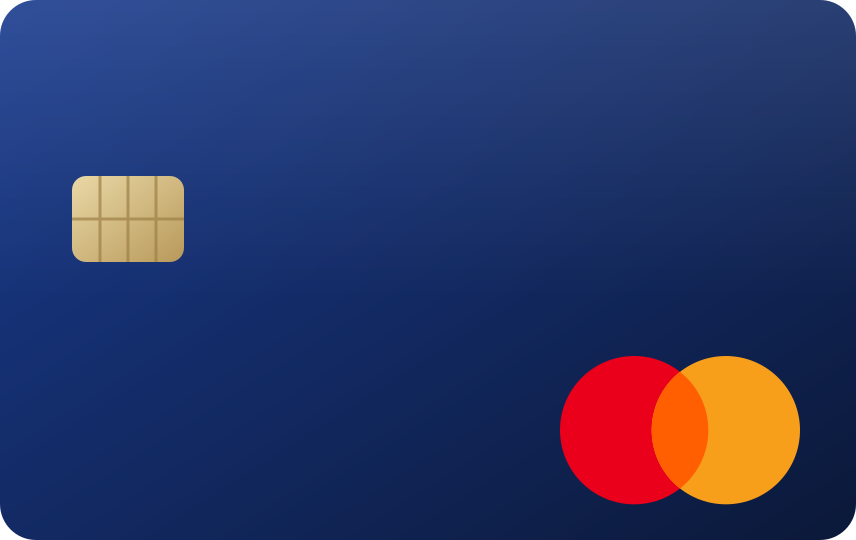
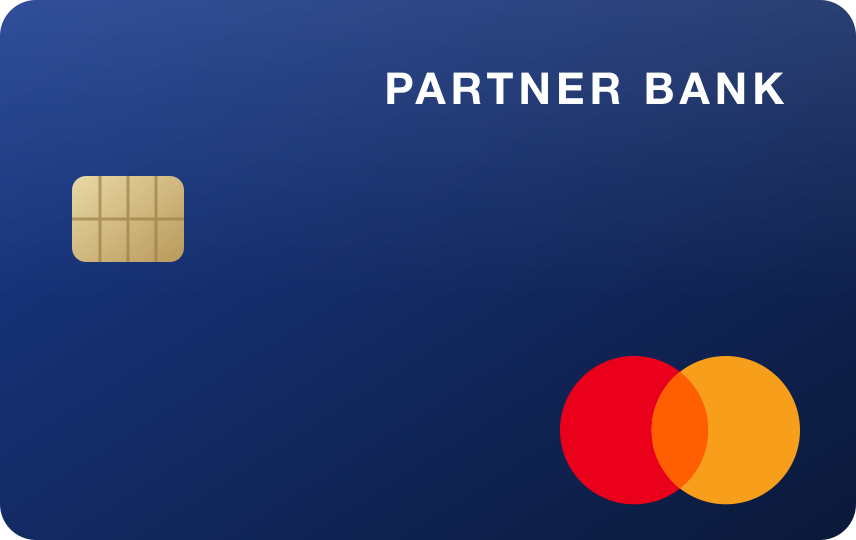
Add issuer name to Mastercard card art and enhance dynamic form with card details overlay

Changed region(s): [[0.4252, 0.1185, 0.9112, 0.2074]]

diff --git a/app/templates/dynamic/dynamic-form.html b/app/templates/dynamic/dynamic-form.html
@@ -39,7 +39,23 @@
                 <input type="radio" name="{{ current_name }}" value="{{ option.value }}" class="sr-only peer"
                     {% if loop.first %}checked{% endif %} required>
                 <div class="rounded-xl border-2 border-gray-200 p-3 peer-checked:border-indigo-600 peer-checked:ring-2 peer-checked:ring-indigo-200">
-                    <img src="{{ option.image_url }}" alt="{{ option.label }}" class="w-full rounded-lg">
+                    {# The card's last four digits and expiry, over its card art. Sized to the card's width. #}
+                    <div class="relative" style="container-type: inline-size;">
+                        <img src="{{ option.image_url }}" alt="{{ option.label }}" class="w-full rounded-lg">
+                        {% if option.last_four %}
+                        <div class="absolute text-white font-mono" aria-hidden="true"
+                            style="left: 8%; top: 51%; font-size: 6.2cqw; letter-spacing: 0.04em; text-shadow: 0 1px 2px rgba(0,0,0,.5); white-space: nowrap;">
+                            •••• •••• •••• {{ option.last_four }}
+                        </div>
+                        {% endif %}
+                        {% if option.expiry %}
+                        <div class="absolute text-white" aria-hidden="true"
+                            style="left: 8%; top: 72%; text-shadow: 0 1px 2px rgba(0,0,0,.5);">
+                            <div style="font-size: 2.6cqw; letter-spacing: 0.08em; opacity: .8;">EXPIRY DATE</div>
+                            <div class="font-mono" style="font-size: 4.6cqw;">{{ option.expiry }}</div>
+                        </div>
+                        {% endif %}
+                    </div>
                     <div class="mt-2 text-center font-semibold text-gray-800">{{ option.label }}</div>
                 </div>
             </label>
@@ -280,12 +296,14 @@
 
                 <div id="visible-optional-attributes" class="mt-4"></div>
 
+                {% if optional_attributes %}
                 <div id="add-attributes-button-container" class="my-6">
                     <button type="button" id="add-optional-btn"
                         class="w-full py-3 px-4 border border-gray-400 rounded-lg text-gray-600 font-semibold hover:bg-gray-100 transition-colors">
                         Add Optional Attributes
                     </button>
                 </div>
+                {% endif %}
 
                 <div class="mt-auto py-10">
                     <div class="flex flex-col gap-1 items-center">
